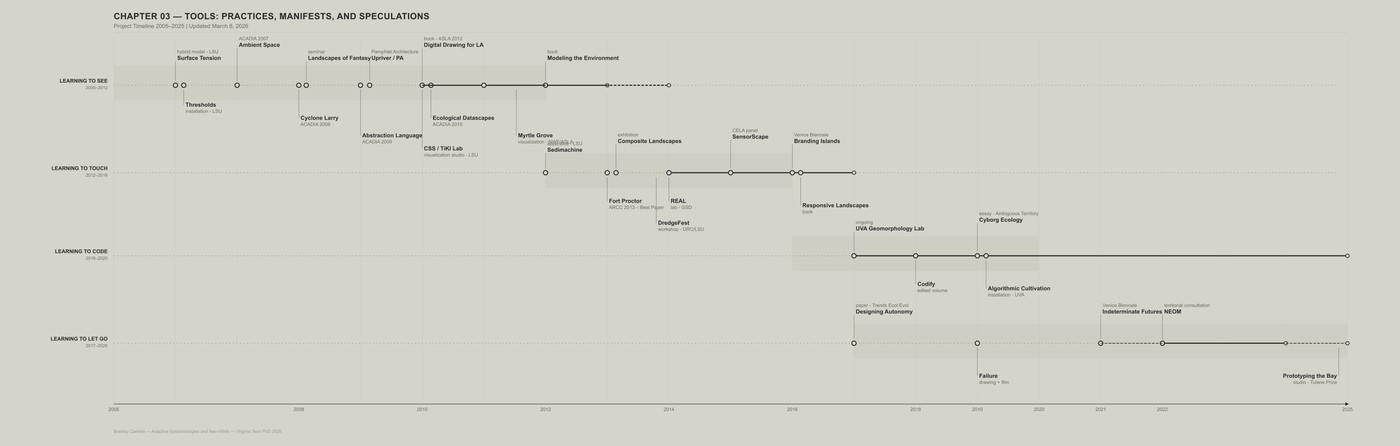
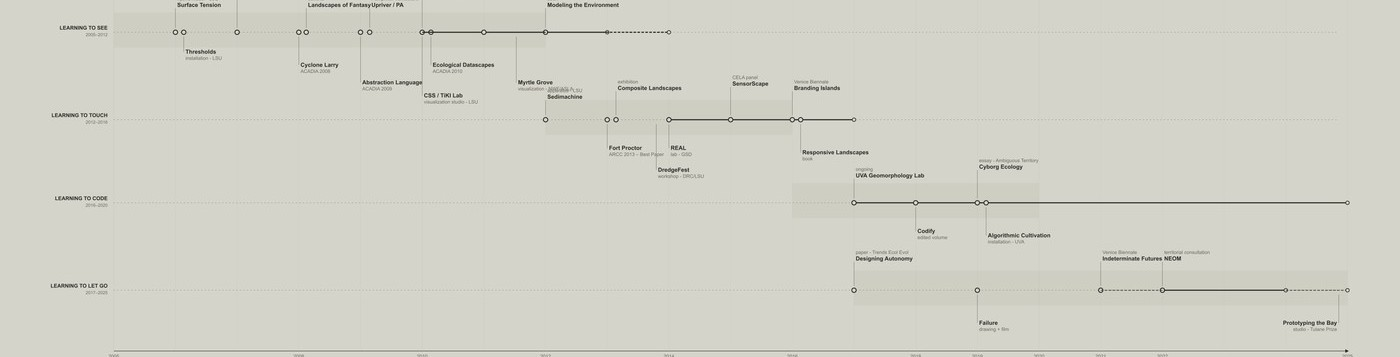
Pointed revisions: Ch 03/05/06 figure distribution + fixes
Ch 03 Refractions:
- 3 backdrops now pinned to specific sections (Physical/Computational, Communities of Practice, Autoethnography)
- No longer stacked at end of text

Ch 05 Tools:
- Timeline (Fig 1) pinned before 'Practices, Manifests' intro section
- REALLab (Fig 2): updated caption, photo flag added (no CSS inversion)
  Caption: 'Geomorphology Modeling Table — REAL, 2015'
- Sedimachine backdrop caption: 'Sedimachine Tests, LSU, 2013'
- Sedimachine backdrop pinned to 'Learning to Code' (not consecutive)
- Boulevard image: deleted from figures dir + overrides, skip
- hydraulic-dredge pinned after 'Theory Distilled from Practice'
- Timeline figure count: 1 (was 2 — duplicate removed)

Ch 06 Models:
- Jons dam pinned: 'From Descriptive Rivers to Quantitative Fluvial Science'
- Mont-Saint-Michel pinned: 'Institutions as Modeling Ecologies'
- Amsterdam-Rhine Canal model pinned: 'From Concrete to Code'
- No more stacking at end
- Duplicate figure bug fixed: usedKeys Set prevents double-rendering when
  placeholder appears in multiple split segments

CSS: .ch-inline-figure--photo img { no inversion, slight darken only }
Build: jpg-preference logic for all figure types, photo flag on inline figures

diff --git a/dissertation/06.html b/dissertation/06.html
@@ -80,6 +80,18 @@
 </p>
 <p>This chapter traces that trajectory with a particular focus on three cases, the Mississippi, the Seine, and the Rhine, and on the institutions that became engines of modeling innovation including Sogreah/Artelia in Grenoble, the U.S. Army Corps of Engineers\' at the Hydrologic Engineering Center (HEC), Delft Hydraulics/Deltares in the Netherlands, and EDF\'s Laboratoire National d\'Hydraulique at Chatou. It also foregrounds an important methodological shift that moves from fieldwork to the laboratory to the digital.
 </p>
+
+</article>
+
+<div class="ch-backdrop">
+  <div class="ch-backdrop__img" style="background-image: url('img/06_models/1930-1935_Scale model of the scour at the foot of the Jons dam.jpg')"></div>
+  
+  <div class="ch-backdrop__caption">
+    <div class="ch-backdrop__caption-title">Scale Model, Scour at the Foot of the Jons Dam, 1930–1935</div>
+    <div class="ch-backdrop__caption-credit">Public domain.</div>
+  </div>
+</div>
+<article class="ch-content">
 <h3>From Descriptive Rivers to Quantitative Fluvial Science</h3>
 <p>Until the mid-twentieth century, river science was primarily descriptive, cataloguing form and inferring history rather than predicting change. The quantitative revolution in fluvial geomorphology started in the 1950s and marked a decisive break. Luna Leopold, M. Gordon Wolman, and John Miller\'s, Fluvial Processes in Geomorphology (1964), synthesized hydraulic theory, systematic field measurements, and laboratory experiments into a process-based framework for understanding channel form and adjustment (Leopold, Wolman, and Miller 1964; Leopold 2010; Wolman 2010).
 </p>
@@ -110,26 +122,17 @@
 </article>
 
 <div class="ch-backdrop">
-  <div class="ch-backdrop__img" style="background-image: url('img/06_models/1930-1935_Scale model of the scour at the foot of the Jons dam.jpg')"></div>
+  <div class="ch-backdrop__img" style="background-image: url('img/06_models/miss-river-basin-model-data-computer-room.jpg')"></div>
   
   <div class="ch-backdrop__caption">
-    <div class="ch-backdrop__caption-title">Scale Model, Scour at the Foot of the Jons Dam, 1930–1935</div>
-    <div class="ch-backdrop__caption-credit">Public domain.</div>
+    <div class="ch-backdrop__caption-title">Mississippi River Basin Model — Data and Computer Room</div>
+    <div class="ch-backdrop__caption-credit">USACE / HAER. Public domain.</div>
   </div>
 </div>
 <article class="ch-content">
 <h2>Modeling Laboratories</h2>
 
 </article>
-
-<figure class="ch-inline-figure">
-  <img src="img/06_models/250408_ArchD Landscape_Mississippi River Watershed.jpg" alt="Mississippi River Watershed" loading="lazy">
-  <figcaption>
-    <span class="ch-inline-figure__num">Figure 2</span>
-    <span class="ch-inline-figure__caption">Mississippi River Watershed</span>
-    <p class="ch-inline-figure__desc">The Mississippi-Missouri drainage basin — 3.2 million km², 31 US states, 2 Canadian provinces. The watershed that the Mississippi River Basin Model was built to simulate.</p>
-  </figcaption>
-</figure>
 
 <figure class="ch-inline-figure">
   <img src="img/06_models/250408_ArchD Landscape_Mississippi River Watershed.jpg" alt="Mississippi River Watershed" loading="lazy">
@@ -184,15 +187,6 @@
     <p class="ch-inline-figure__desc">The Seine drainage basin and estuary at Le Havre — site of the Neyrpic and Sogreah hydraulic modeling laboratories.</p>
   </figcaption>
 </figure>
-
-<figure class="ch-inline-figure">
-  <img src="img/06_models/250408_ArchD Landscape_Seine River Watershed.jpg" alt="Seine River Watershed and Estuary" loading="lazy">
-  <figcaption>
-    <span class="ch-inline-figure__num">Figure 3</span>
-    <span class="ch-inline-figure__caption">Seine River Watershed and Estuary</span>
-    <p class="ch-inline-figure__desc">The Seine drainage basin and estuary at Le Havre — site of the Neyrpic and Sogreah hydraulic modeling laboratories.</p>
-  </figcaption>
-</figure>
 <article class="ch-content">
 <h3>The Seine: Long Anthropogenic Histories</h3>
 <p>Compared to the Mississippi, the Seine\'s modeling history is deeply entangled with slow, cumulative anthropogenic modification. Over at least a millennium, the basin has been progressively engineered through ponds, mills, diversion channels, navigation works, and storage reservoirs, largely in service of provisioning and protecting Paris (Lestel 2020; Seine Wikipedia 2025). Locks installed in the nineteenth century deepened the urban reach and transformed shallow sandy banks into a controlled navigation channel (Britannica 2025). Flood control reservoirs on the Yonne, Marne, Aube, and upper Seine, built from the mid-nineteenth century onward, added another layer of hydraulic regulation (Seine Wikipedia 2025).
@@ -216,15 +210,6 @@
     <p class="ch-inline-figure__desc">The Rhine delta and Netherlands flood management system — site of the Delft Hydraulics Laboratory and the Dutch modeling tradition.</p>
   </figcaption>
 </figure>
-
-<figure class="ch-inline-figure">
-  <img src="img/06_models/250408_ArchD Potrait_Rhine River Watershed.jpg" alt="Rhine River Watershed and Delta" loading="lazy">
-  <figcaption>
-    <span class="ch-inline-figure__num">Figure 4</span>
-    <span class="ch-inline-figure__caption">Rhine River Watershed and Delta</span>
-    <p class="ch-inline-figure__desc">The Rhine delta and Netherlands flood management system — site of the Delft Hydraulics Laboratory and the Dutch modeling tradition.</p>
-  </figcaption>
-</figure>
 <article class="ch-content">
 <h3>The Rhine: Hybrid Modeling Cultures</h3>
 <p>The Rhine\'s 15,000-year fluvial history is marked by shifting meander generations and transitions from braided to meandering patterns, overprinted by intensive human modification since at least the Neolithic (Fluvial History Upper Rhine 2002). From circa 1100 CE onward, deforestation, channel engineering, land reclamation, and later industrialization drastically simplified and confined the channel and eliminated an estimated 85 percent of historical floodplain area (Fluvial Anthroposphere 2025; Wetlands International 2025; Harvard Magazine 2006). The river has accordingly become emblematic of the \"fluvial anthroposphere,\" where human activities function as primary geomorphic agents (Fluvial Anthroposphere 2025).
@@ -235,6 +220,18 @@
 </p>
 <p>Other work couples remote sensing (e.g. SAR imagery) with numerical models to simulate the Rhine plume in the North Sea, again underlining the way in which the river is embedded in a larger coastald system (AMETSOC 2001). Taken together, these efforts exemplify a mature modeling culture where 1D-2D numerical models, reach-scal CFD, physical models, and satellite data are woven together to manage a highly engineered but still dynamic international river.
 </p>
+
+</article>
+
+<div class="ch-backdrop">
+  <div class="ch-backdrop__img" style="background-image: url('img/06_models/1997_Sedimentological model with mobile bottoms of Mont-Saint-Michel.jpg')"></div>
+  
+  <div class="ch-backdrop__caption">
+    <div class="ch-backdrop__caption-title">Sedimentological Model, Mont-Saint-Michel, 1997</div>
+    <div class="ch-backdrop__caption-credit">Public domain.</div>
+  </div>
+</div>
+<article class="ch-content">
 <h3>Institutions as Modeling Ecologies</h3>
 <p>Across these rivers, a set of institutions repeatedly appear as crucibles for modeling innovation.
 </p>
@@ -258,7 +255,7 @@
 </article>
 
 <figure class="ch-inline-figure">
-  <img src="img/06_models/04_Figure_FluvialModelingParadigms.png" alt="Fluvial Modeling Paradigms — A History" loading="lazy">
+  <img src="img/06_models/04_Figure_FluvialModelingParadigms.jpg" alt="Fluvial Modeling Paradigms — A History" loading="lazy">
   <figcaption>
     <span class="ch-inline-figure__num">Figure 1</span>
     <span class="ch-inline-figure__caption">Fluvial Modeling Paradigms — A History</span>
@@ -319,33 +316,6 @@
 <p>To design models that generate rather than foreclose is also to design the instruments through which territories become known. The choice of what to sense, where to place the sensor, what data structures to build, what phenomena to count as information, these are design decisions of the first order, not technical defaults. They determine not only what the model can see but what the territory can reveal. Chapter 7 examines the politics of that apparatus, the technogeographies of sensing through which the knowing of landscapes is structured before any model runs, and the neo-wild landscapes that emerge in the gaps of what has not been instrumented.
 </p>
 </article>
-
-<div class="ch-backdrop">
-  <div class="ch-backdrop__img" style="background-image: url('img/06_models/1997_Sedimentological model with mobile bottoms of Mont-Saint-Michel.jpg')"></div>
-  
-  <div class="ch-backdrop__caption">
-    <div class="ch-backdrop__caption-title">Sedimentological Model, Mont-Saint-Michel, 1997</div>
-    <div class="ch-backdrop__caption-credit">Public domain.</div>
-  </div>
-</div>
-
-<div class="ch-backdrop">
-  <div class="ch-backdrop__img" style="background-image: url('img/06_models/Model at the Waterloopkundig Laboratorium de Voorst used in the design of a section of the Amsterdam-Rhine Canal-3.png')"></div>
-  
-  <div class="ch-backdrop__caption">
-    <div class="ch-backdrop__caption-title">Waterloopkundig Laboratorium de Voorst — Amsterdam-Rhine Canal Model</div>
-    <div class="ch-backdrop__caption-credit">Public domain.</div>
-  </div>
-</div>
-
-<div class="ch-backdrop">
-  <div class="ch-backdrop__img" style="background-image: url('img/06_models/miss-river-basin-model-data-computer-room.jpg')"></div>
-  
-  <div class="ch-backdrop__caption">
-    <div class="ch-backdrop__caption-title">Mississippi River Basin Model — Data and Computer Room</div>
-    <div class="ch-backdrop__caption-credit">USACE / HAER. Public domain.</div>
-  </div>
-</div>
 
 <div class="ch-backdrop">
   <div class="ch-backdrop__img" style="background-image: url('img/06_models/miss-river-basin-model-engineers-examining-model.jpg')"></div>

diff --git a/dissertation/03.html b/dissertation/03.html
@@ -122,6 +122,18 @@
 </p>
 <p>This method is deployed when understanding how a particular configuration of actors, infrastructures, ecologies, and institutions actually operate is critical to speculating on future landscape conditions. The fluvial modeling chapter and discursive cases throughout are necessary when the critique requires situated descriptions of a context, including regulatory structures, historical trajectories, and socio-cultural factors. Therefore a dialectical reading of project situations, collaborations with research labs, design offices, and public agencies allows the research to formulate how methods and concepts mutate or fail under a range of institutional and territorial conditions. In this sense they help to test if the concepts developed within have explanatory or generative value beyond a single site or collaboration and operate both reflexively, on the practice, and outwardly on a wider field of inputs.
 </p>
+
+</article>
+
+<div class="ch-backdrop">
+  <div class="ch-backdrop__img" style="background-image: url('img/03_refractions/04_models_coastal-wetlands-restoration-katrina-noaa.jpg')"></div>
+  
+  <div class="ch-backdrop__caption">
+    <div class="ch-backdrop__caption-title">Coastal Wetlands Restoration, Post-Katrina</div>
+    <div class="ch-backdrop__caption-credit">NOAA. Public domain.</div>
+  </div>
+</div>
+<article class="ch-content">
 <h3>Physical and Computational Modeling as Experimental Practice</h3>
 <p>A majority of the concepts extrapolated in the practice are embedded in dynamic environmental processes within fluvial morphodynamics, sediment deposition/erosion, biological communities, hydrologic performance, and environmental sensor networks. My research unpacks dynamic processes using geomorphological models, material experiments that are in conversation with computational simulations and time-based visualizations.
 </p>
@@ -143,6 +155,18 @@
 </p>
 <p>Kelsch\'s most sustained intervention across PRS 4 and 6 returned repeatedly to place. The models seemed abstract, he observed, and yet they were tied to specific conditions, the Mississippi\'s sediment loads, the Atchafalaya spillway, the hydrology of the LA River. He quoted the work back directly: \"the areas act to nudge and guide the River system,\" and \"the new riverbed is the product of interactions that guide outcomes controlled within a range.\" What struck him in those phrases was not the technical claim but the value decision embedded in it. \"How much wildness can we tolerate?\" he asked. \"The sublime isn\'t sublime when it\'s actual terror.\" The geographic specificity of the modeling work was not a limitation to be overcome but the site where those value decisions become legible, where the interaction between designed intervention and material system reveals what a practice actually believes about indeterminacy, risk, and responsibility. Refraction does not replace that specificity with abstraction. It makes visible the values the specificity was carrying all along.
 </p>
+
+</article>
+
+<div class="ch-backdrop">
+  <div class="ch-backdrop__img" style="background-image: url('img/03_refractions/ecological-restoration-salt-marsh-tidal.jpg')"></div>
+  
+  <div class="ch-backdrop__caption">
+    <div class="ch-backdrop__caption-title">Tidal Salt Marsh Restoration</div>
+    <div class="ch-backdrop__caption-credit">null</div>
+  </div>
+</div>
+<article class="ch-content">
 <h3>Communities of Practice and Collaborative Inquiry</h3>
 <p>The research is embedded in an ecology of collaboration among design academics, professional firms, engineering and science labs, agencies, and communities. To create a rigorous framework for knowledge production within this context I rely on theories of communities of practice, which conceptualizes learning as a process of relational participation in a shared discourse. Communities of practice are characterized by mutual engagement, joint enterprise, and a shared repertoire of tools, theories, and narratives (Lave and Wenger 1991; Wenger 1998). This framework is preferred here over actor-network theory because the research interest is in knowledge production within the community rather than the translation of interests between actors.
 </p>
@@ -150,6 +174,18 @@
 </p>
 <p>The community of practice framework also incorporates a strategic dimension guiding the deliberate formation and sustenance of communities centered around questions of sediment, river processes, and territorial scale climate adaptation. The dissertation therefore privileges collaborations in which I participate in problem definition, experimentation, and reflection, which is methodologically generative. Understandably it is more selective about transactional engagements where design appears as a method of visualization or at the end of an externally defined brief.
 </p>
+
+</article>
+
+<div class="ch-backdrop">
+  <div class="ch-backdrop__img" style="background-image: url('img/03_refractions/sedimachine_photo__DSC0183.jpg')"></div>
+  
+  <div class="ch-backdrop__caption">
+    <div class="ch-backdrop__caption-title">Sedimachine, 2013</div>
+    <div class="ch-backdrop__caption-credit">Cantrell, Melendez, Holzman, Darden</div>
+  </div>
+</div>
+<article class="ch-content">
 <h3>Autoethnography and Reflective Practice</h3>
 <p>Because many significant methodological decisions are made in the heat of practice, the dissertation employs autoethnography and modes of reflective practice as complementary methods.
 </p>
@@ -184,33 +220,6 @@
 <p><em>These are the questions the methodology is designed to hold open. The chapters that follow do not resolve them, they demonstrate what it looks like to work inside them, through the communities, tools, and territories where the research was actually made.</em>
 </p>
 </article>
-
-<div class="ch-backdrop">
-  <div class="ch-backdrop__img" style="background-image: url('img/03_refractions/04_models_coastal-wetlands-restoration-katrina-noaa.jpg')"></div>
-  
-  <div class="ch-backdrop__caption">
-    <div class="ch-backdrop__caption-title">Coastal Wetlands Restoration, Post-Katrina</div>
-    <div class="ch-backdrop__caption-credit">NOAA. Public domain.</div>
-  </div>
-</div>
-
-<div class="ch-backdrop">
-  <div class="ch-backdrop__img" style="background-image: url('img/03_refractions/ecological-restoration-salt-marsh-tidal.jpg')"></div>
-  
-  <div class="ch-backdrop__caption">
-    <div class="ch-backdrop__caption-title">Tidal Salt Marsh Restoration</div>
-    <div class="ch-backdrop__caption-credit">null</div>
-  </div>
-</div>
-
-<div class="ch-backdrop">
-  <div class="ch-backdrop__img" style="background-image: url('img/03_refractions/sedimachine_photo__DSC0183.jpg')"></div>
-  
-  <div class="ch-backdrop__caption">
-    <div class="ch-backdrop__caption-title">Sedimachine, 2013</div>
-    <div class="ch-backdrop__caption-credit">Cantrell, Melendez, Holzman, Darden</div>
-  </div>
-</div>
     
     <div style="max-width:var(--ch-content);margin:0 auto;padding:0 clamp(1.5rem,5vw,3rem);">
       <aside class="ch-references"><h2>References</h2><p>Adams, Tony E., Stacy Holman Jones, and Carolyn Ellis. 2015. <em>Autoethnography</em>. Understanding Qualitative Research. Oxford University Press.

diff --git a/dissertation/05.html b/dissertation/05.html
@@ -89,29 +89,12 @@
 
 </article>
 
-<figure class="ch-inline-figure">
-  <img src="img/05_tools/03_Figure07_Timeline-v3.png" alt="Practice Timeline: Practices, Manifests, and Speculations, 2005–2025" loading="lazy">
-  <figcaption>
-    <span class="ch-inline-figure__num">Figure 1</span>
-    <span class="ch-inline-figure__caption">Practice Timeline: Practices, Manifests, and Speculations, 2005–2025</span>
-    <p class="ch-inline-figure__desc">Four phases of practice-based research: Learning to See (2005–2012), Learning to Touch (2012–2016), Learning to Code (2016–2020), and Learning to Let Go (2017–2025).</p>
-  </figcaption>
-</figure>
-
-<figure class="ch-inline-figure">
-  <img src="img/05_tools/03_Figure07_Timeline-v3.png" alt="Practice Timeline: Practices, Manifests, and Speculations, 2005–2025" loading="lazy">
-  <figcaption>
-    <span class="ch-inline-figure__num">Figure 1</span>
-    <span class="ch-inline-figure__caption">Practice Timeline: Practices, Manifests, and Speculations, 2005–2025</span>
-    <p class="ch-inline-figure__desc">Four phases of practice-based research: Learning to See (2005–2012), Learning to Touch (2012–2016), Learning to Code (2016–2020), and Learning to Let Go (2017–2025).</p>
-  </figcaption>
-</figure>
-
 <div class="ch-backdrop">
-  <div class="ch-backdrop__img" style="background-image: url('img/05_tools/Boulevard_Scene-re_edit.jpg')"></div>
+  <div class="ch-backdrop__img" style="background-image: url('img/05_tools/thresholds_slides_Page_03.jpg')"></div>
   
   <div class="ch-backdrop__caption">
-    <div class="ch-backdrop__caption-title">Boulevard Scene re edit</div>
+    <div class="ch-backdrop__caption-title">Thresholds Installation, LSU, 2006</div>
+    <div class="ch-backdrop__caption-credit">Cantrell</div>
   </div>
 </div>
 <article class="ch-content">
@@ -139,12 +122,12 @@
 
 </article>
 
-<figure class="ch-inline-figure">
-  <img src="img/05_tools/04_Figure01_REALLab.png" alt="Sedimachine — REALLab, Louisiana State University, 2013" loading="lazy">
+<figure class="ch-inline-figure ch-inline-figure--photo">
+  <img src="img/05_tools/04_Figure01_REALLab.jpg" alt="Geomorphology Modeling Table — Responsive Environments and Artifacts Lab (REAL), 2015" loading="lazy">
   <figcaption>
     <span class="ch-inline-figure__num">Figure 2</span>
-    <span class="ch-inline-figure__caption">Sedimachine — REALLab, Louisiana State University, 2013</span>
-    <p class="ch-inline-figure__desc">Robotic sediment deposition apparatus developed at the REALLab. Automated deposition system tests adaptive responses to simulated hydrological conditions.</p>
+    <span class="ch-inline-figure__caption">Geomorphology Modeling Table — Responsive Environments and Artifacts Lab (REAL), 2015</span>
+    <p class="ch-inline-figure__desc">Robotic sediment deposition apparatus developed at REAL. Automated deposition system tests adaptive responses to simulated hydrological conditions.</p>
   </figcaption>
 </figure>
 <article class="ch-content">
@@ -184,17 +167,8 @@
   <div class="ch-backdrop__img" style="background-image: url('img/05_tools/04_Figure02_Sedimachine.jpg')"></div>
   
   <div class="ch-backdrop__caption">
-    <div class="ch-backdrop__caption-title">Sedimachine in operation</div>
+    <div class="ch-backdrop__caption-title">Sedimachine Tests, Louisiana State University, 2013</div>
     <div class="ch-backdrop__caption-credit">Cantrell, REALLab LSU</div>
-  </div>
-</div>
-
-<div class="ch-backdrop">
-  <div class="ch-backdrop__img" style="background-image: url('img/05_tools/hydraulic-dredge-bordeaux-1918-nara-historic.jpg')"></div>
-  
-  <div class="ch-backdrop__caption">
-    <div class="ch-backdrop__caption-title">Hydraulic Dredge, Bordeaux, 1918</div>
-    <div class="ch-backdrop__caption-credit">NARA. Public domain.</div>
   </div>
 </div>
 <article class="ch-content">
@@ -262,11 +236,11 @@
 </article>
 
 <div class="ch-backdrop">
-  <div class="ch-backdrop__img" style="background-image: url('img/05_tools/$$_composite_full (0-01-08-23).jpg')"></div>
+  <div class="ch-backdrop__img" style="background-image: url('img/05_tools/hydraulic-dredge-bordeaux-1918-nara-historic.jpg')"></div>
   
   <div class="ch-backdrop__caption">
-    <div class="ch-backdrop__caption-title">Algorithmic Cultivation — Composite</div>
-    <div class="ch-backdrop__caption-credit">Cantrell</div>
+    <div class="ch-backdrop__caption-title">Hydraulic Dredge, Bordeaux, 1918</div>
+    <div class="ch-backdrop__caption-credit">NARA. Public domain.</div>
   </div>
 </div>
 <article class="ch-content">
@@ -314,6 +288,15 @@
 <p>Young, Dave. 2018. "Computing War Narratives: The Hamlet Evaluation System in Vietnam." <em>Grey Room</em> 70 (Winter 2018): 56&ndash;85. [NEEDS VERIFICATION]
 </p>
 </article>
+
+<figure class="ch-inline-figure">
+  <img src="img/05_tools/03_Figure07_Timeline-v3.jpg" alt="Practice Timeline: Practices, Manifests, and Speculations, 2005–2025" loading="lazy">
+  <figcaption>
+    <span class="ch-inline-figure__num">Figure 1</span>
+    <span class="ch-inline-figure__caption">Practice Timeline: Practices, Manifests, and Speculations, 2005–2025</span>
+    <p class="ch-inline-figure__desc">Four phases of practice-based research: Learning to See (2005–2012), Learning to Touch (2012–2016), Learning to Code (2016–2020), and Learning to Let Go (2017–2025).</p>
+  </figcaption>
+</figure>
     
     <div style="max-width:var(--ch-content);margin:0 auto;padding:0 clamp(1.5rem,5vw,3rem);">
       

diff --git a/dissertation/02.html b/dissertation/02.html
@@ -145,7 +145,7 @@
 </figure>
 
 <div class="ch-backdrop">
-  <div class="ch-backdrop__img" style="background-image: url('img/02_adaptive_epistemologies/landscape-type-B-best.png')"></div>
+  <div class="ch-backdrop__img" style="background-image: url('img/02_adaptive_epistemologies/landscape-type-B-best.jpg')"></div>
   
   <div class="ch-backdrop__caption">
     <div class="ch-backdrop__caption-title">landscape type B best</div>

diff --git a/dissertation/chapter.css b/dissertation/chapter.css
@@ -329,6 +329,11 @@ nav {
   filter: invert(1) brightness(0.88) contrast(1.05);
 }
 
+/* Photos used as inline figures — no inversion */
+.ch-inline-figure--photo img {
+  filter: brightness(0.85) saturate(0.85);
+}
+
 .ch-inline-figure figcaption {
   margin-top: 0.85rem;
   display: grid;
